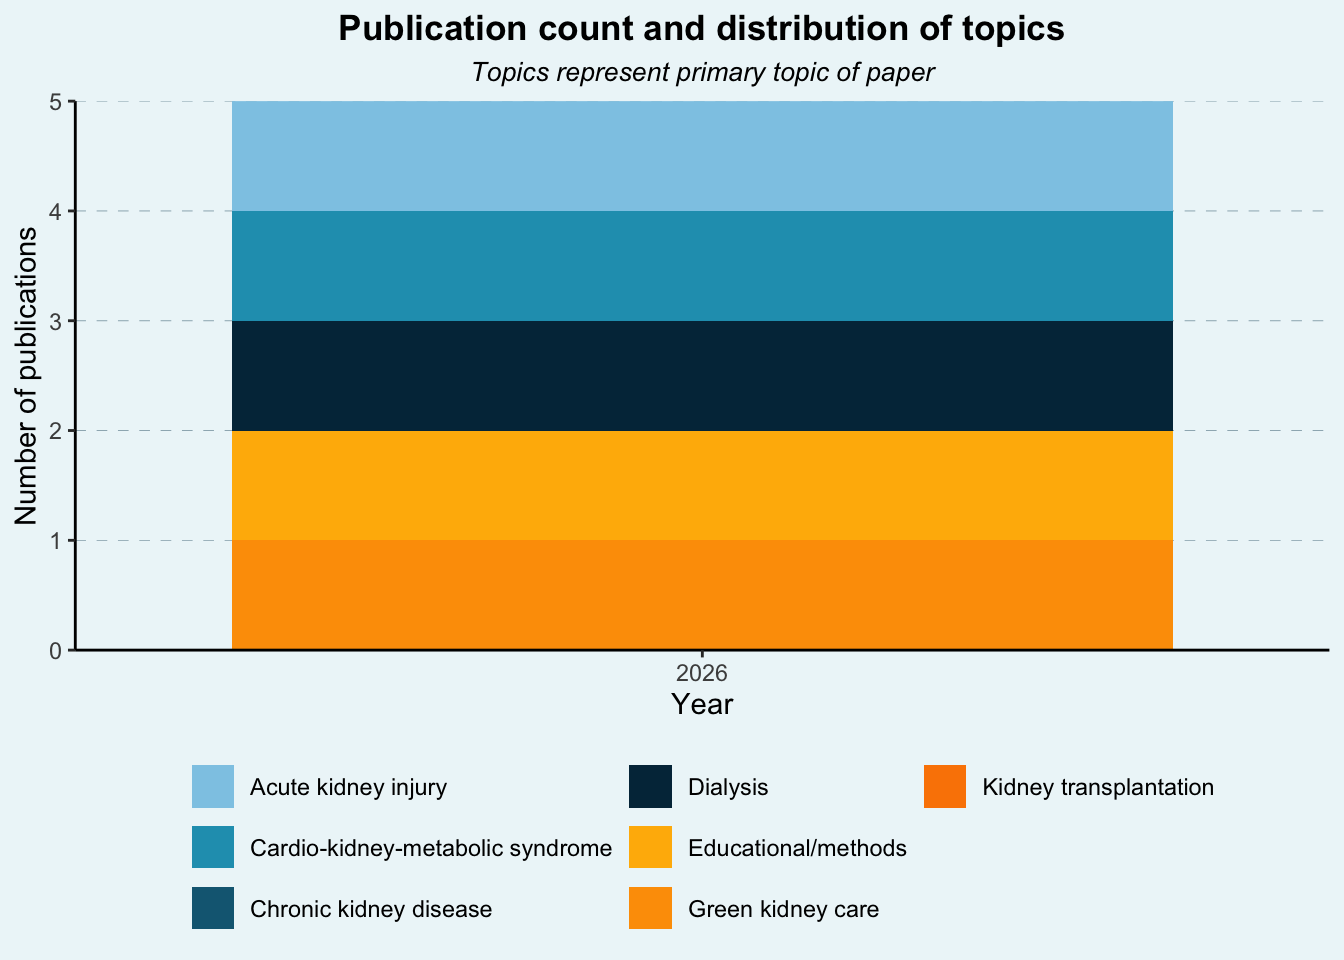
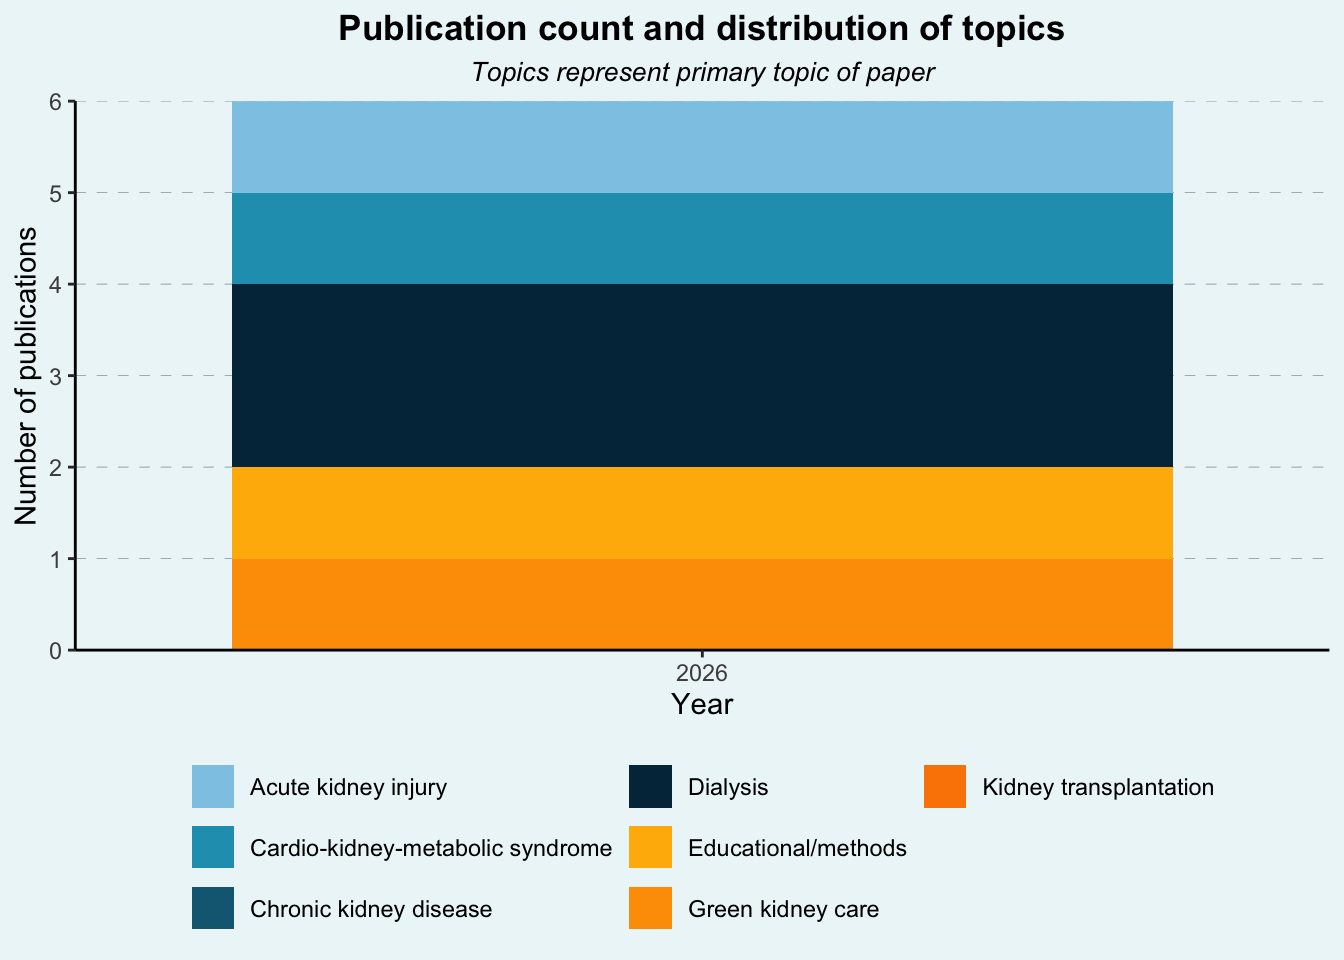
Built site for gh-pages

diff --git a/publications.html b/publications.html
@@ -390,23 +390,27 @@ ul.task-list li input[type="checkbox"] {
 </colgroup>
 <tbody>
 <tr class="odd">
-<td><a href="images/output/roos-2026-bmc_nephrol.jpg" class="lightbox" data-gallery="quarto-lightbox-gallery-1"><img src="images/output/roos-2026-bmc_nephrol.jpg" class="img-fluid"></a></td>
+<td><a href="images/output/vernooij-2026-cochrane.jpg" class="lightbox" data-gallery="quarto-lightbox-gallery-1"><img src="images/output/vernooij-2026-cochrane.jpg" class="img-fluid"></a></td>
+<td><span style="font-size: 95%;"><strong>Haemodiafiltration, haemofiltration and haemodialysis for adults with kidney failure</strong></span> <br> <span style="font-size: 85%;">We performed a Cochrane review to determine the benefits and harms of convective (HF, HDF, or AFB) versus diffusive (HD) dialysis modalities, or expanded HD (HDx), in preventing all-cause and cardiovascular death, cardiovascular morbidity, fatigue, and vascular access problems in adults with kidney failure. More <a href="https://doi.org/10.1002%2F14651858.CD006258.pub3">here</a></span> <br> <span class="dialysis">Dialysis</span></td>
+</tr>
+<tr class="even">
+<td><a href="images/output/roos-2026-bmc_nephrol.jpg" class="lightbox" data-gallery="quarto-lightbox-gallery-2"><img src="images/output/roos-2026-bmc_nephrol.jpg" class="img-fluid"></a></td>
 <td><span style="font-size: 95%;"><strong>Study protocol for a target trial emulation: CHoosing the right diAlysis Modality in clinical PractIce: hemOdiafiltratioN or hemodialysis (CHAMPION)</strong></span> <br> <span style="font-size: 85%;">We describe the protocol for an observational causal study that aims to investigate the effect of haemodiafiltration as compared to haemodialysis on several outcomes. Analytical details are outlined. More <a href="https://doi.org/10.1186/s12882-026-05315-z">here</a></span> <br> <span class="dialysis">Dialysis</span> <span class="methods">Methods</span></td>
 </tr>
-<tr class="even">
-<td><a href="images/output/janse-2026-int_j_epidemiol.jpg" class="lightbox" data-gallery="quarto-lightbox-gallery-2"><img src="images/output/janse-2026-int_j_epidemiol.jpg" class="img-fluid"></a></td>
+<tr class="odd">
+<td><a href="images/output/janse-2026-int_j_epidemiol.jpg" class="lightbox" data-gallery="quarto-lightbox-gallery-3"><img src="images/output/janse-2026-int_j_epidemiol.jpg" class="img-fluid"></a></td>
 <td><span style="font-size: 95%;"><strong>Why can’t epidemiology be automated (yet)? Perhaps it shouldn’t be</strong></span> <br> <span style="font-size: 85%;">We respond to an article in the <em>International Journal of Epidemiology</em> to highlight the issues associated with Generative AI. More <a href="https://doi.org/10.1093/ije/dyag065">here</a></span> <br> <span class="methods">Methods</span></td>
 </tr>
-<tr class="odd">
-<td><a href="images/output/porras-2026-j_am_heart_assoc.jpg" class="lightbox" data-gallery="quarto-lightbox-gallery-3"><img src="images/output/porras-2026-j_am_heart_assoc.jpg" class="img-fluid"></a></td>
+<tr class="even">
+<td><a href="images/output/porras-2026-j_am_heart_assoc.jpg" class="lightbox" data-gallery="quarto-lightbox-gallery-4"><img src="images/output/porras-2026-j_am_heart_assoc.jpg" class="img-fluid"></a></td>
 <td><span style="font-size: 95%;"><strong>Longitudinal Echocardiographic Parameters of Diastolic Dysfunction Are Influenced by Kidney Function: A Study in Routine Clinical Practice</strong></span> <br> <span style="font-size: 85%;">We assessed the relationship between left ventricular diastolic dysfunction and chronic kidney disease over time. Lower kidney function was consistently associated with a more adverse diastolic echocardiographic phenotype, established at initial clinical assessment and without measurable further divergence. More <a href="https://doi.org/10.1161/jaha.125.046252">here</a></span> <br> <span class="ckm">CKM</span></td>
 </tr>
-<tr class="even">
-<td><a href="images/output/veltkamp-2026-clin_kidney_j.jpg" class="lightbox" data-gallery="quarto-lightbox-gallery-4"><img src="images/output/veltkamp-2026-clin_kidney_j.jpg" class="img-fluid"></a></td>
+<tr class="odd">
+<td><a href="images/output/veltkamp-2026-clin_kidney_j.jpg" class="lightbox" data-gallery="quarto-lightbox-gallery-5"><img src="images/output/veltkamp-2026-clin_kidney_j.jpg" class="img-fluid"></a></td>
 <td><span style="font-size: 95%;"><strong>Long-term risks of major adverse cardiovascular events after acute kidney injury: a systematic review and meta-analysis</strong></span> <br> <span style="font-size: 85%;">By studying 54 studies that together comprised 1,261,090 individuals, we showed that the relative risk of cardiovascular events after acute kidney injury is severely elevated. Elevated risks remained across AKI stages and duration. More <a href="https://doi.org/10.1093/ckj/sfag145">here</a></span> <br> <span class="aki">AKI</span></td>
 </tr>
-<tr class="odd">
-<td><a href="images/output/liang-2025-environ_pollut.jpg" class="lightbox" data-gallery="quarto-lightbox-gallery-5"><img src="images/output/liang-2025-environ_pollut.jpg" class="img-fluid"></a></td>
+<tr class="even">
+<td><a href="images/output/liang-2025-environ_pollut.jpg" class="lightbox" data-gallery="quarto-lightbox-gallery-6"><img src="images/output/liang-2025-environ_pollut.jpg" class="img-fluid"></a></td>
 <td><span style="font-size: 95%;"><strong>Associations of residential environmental factors with kidney function in Dutch older adults</strong></span> <br> <span style="font-size: 85%;">We investigated whether air pollution and how walkable a neighborhood is affects the kidney function of older adults in the Netherlands. The results were inconsistent and larger studies with a longer follow-up are needed before we can give a definitive answer. More <a href="https://doi.org/10.1016/j.envpol.2026.127917">here</a></span> <br> <span class="ckd">CKD</span> <span class="eco">Eco</span></td>
 </tr>
 </tbody>

diff --git a/resources.html b/resources.html
@@ -433,10 +433,14 @@ ul.task-list li input[type="checkbox"] {
 <td>U-KREAT template for a portrait-oriented A0-sized poster</td>
 </tr>
 <tr class="even">
+<td><a href="https://github.com/ukreat/ukreat.github.io/raw/refs/heads/main/theme/carousel_linkedin.potx">LinkedIn carousel</a><sup>a</sup></td>
+<td>U-KREAT template for a LinkedIn carousel post</td>
+</tr>
+<tr class="odd">
 <td><a href="./theme/style.html">Style</a></td>
 <td>Information on colour palette and font of U-KREAT</td>
 </tr>
-<tr class="odd">
+<tr class="even">
 <td><a href="https://github.com/ukreat/ukreat.github.io/tree/main/theme/qr-code.png">QR code</a></td>
 <td>QR code linking to U-KREAT website</td>
 </tr>

diff --git a/highlights.html b/highlights.html
@@ -381,7 +381,7 @@ ul.task-list li input[type="checkbox"] {
 
 
 <p><em>Last updated on: 2026-09-15</em></p>
-<p>Since its formation in January 2026, the members of U-KREAT have published <em>5</em> papers directly related to U-KREAT. These are distributed across years and research lines as follows:</p>
+<p>Since its formation in January 2026, the members of U-KREAT have published <em>6</em> papers directly related to U-KREAT. These are distributed across years and research lines as follows:</p>
 <div class="cell">
 <div class="cell-output-display">
 <div>

diff --git a/calendar.html b/calendar.html
@@ -343,7 +343,7 @@ ul.task-list li input[type="checkbox"] {
 </thead>
 <tbody>
 <tr class="odd">
-<td>12-Oct-2026, 10:00-11:00</td>
+<td>19-Oct-2026, 10:00-11:00</td>
 <td>Biweekly meeting</td>
 <td>Café Creatinine</td>
 <td>Mock defence Cindy Porras</td>
